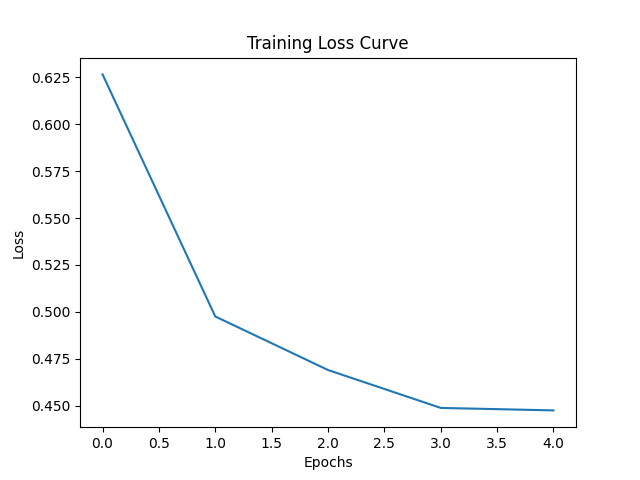
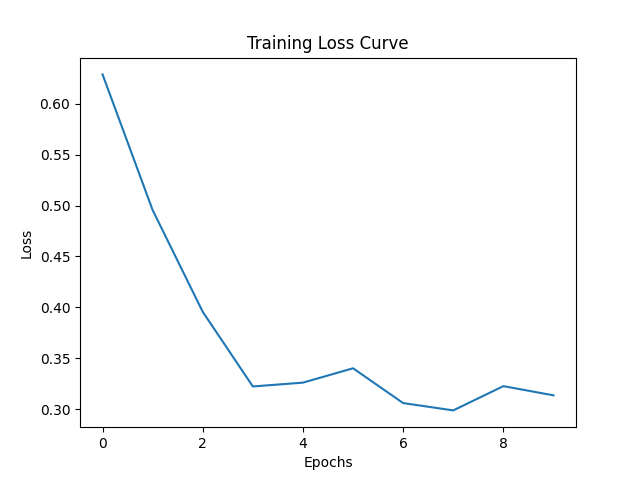
classifier done

diff --git a/classifier.py b/classifier.py
@@ -1,4 +1,4 @@
-from transformers import RobertaModel, AutoTokenizer, AdamW, AutoModel, AutoConfig
+from transformers import RobertaForSequenceClassification, AutoTokenizer, AdamW, AutoModel, AutoConfig
 import numpy as np
 import torch 
 from torch import nn
@@ -51,7 +51,8 @@ def train_one(model, tokenizer, batched_train_set, answer_tenser, optimizer, los
         inputs = tokenizer(data, return_tensors='pt', truncation=True, padding=True, max_length=500).to(device)
         optimizer.zero_grad()
         outputs = model(**inputs)
-        pred = torch.clamp(outputs.pooler_output, min=1e-6, max=1)
+        # print(outputs.logits)
+        pred = torch.clamp(outputs.logits, min=1e-6, max=1)
         # print(pred.shape)
         # print(answer_tenser[index])
         loss = loss_func(pred, answer_tenser[index].to(device))
@@ -64,7 +65,6 @@ def train_one(model, tokenizer, batched_train_set, answer_tenser, optimizer, los
     return np.mean(losses)
 
 def train_classifier(model, tokenizer, train_set, batch = 1, epochs = 5, lr = 1e-5, weight_decay = 0.01):
-    print(model.pooler.dense )
     tokenizer.add_special_tokens({'pad_token': '[PAD]'})
     model.resize_token_embeddings(len(tokenizer))
 
@@ -93,49 +93,63 @@ def train_classifier(model, tokenizer, train_set, batch = 1, epochs = 5, lr = 1e
     for epoch in tqdm(range(epochs), desc = "Progress of train_classifier"):
         loss = train_one(model, tokenizer, batched_train_set, bacthed_answers, optimizer, loss_func)
         loss_values.append(loss)
+    
     model.save_pretrained("classifier")
     # # Generate an image of the loss curves
-    # plt.clf()
-    # plt.plot(range(epochs), loss_values)
-    # plt.xlabel('Epochs')
-    # plt.ylabel('Loss')
-    # plt.title('Training Loss Curve')
-    # plt.savefig('loss curve of classifier.png')
+    plt.clf()
+    plt.plot(range(epochs), loss_values)
+    plt.xlabel('Epochs')
+    plt.ylabel('Loss')
+    plt.title('Training Loss Curve')
+    plt.savefig('loss curve of classifier.png')
 
 
 if __name__ == '__main__':
-    model = AutoModel.from_pretrained('distilroberta-base')
+    model = RobertaForSequenceClassification.from_pretrained('distilroberta-base')
     tokenizer = AutoTokenizer.from_pretrained("distilbert/distilroberta-base", use_fast=True)
-
     dataset = merge_dataset(load_dataset("knowledgator/Scientific-text-classification", split='train'))
     dataset = dataset.select(range(len(dataset)//4))
 
-    # change the last layer to create 5 output
-    model.pooler.dense = nn.Linear(768, 5)
-    # print(model.pooler)
-    train_classifier(model, tokenizer, dataset, batch = 2, epochs = 5, lr = 1e-5, weight_decay = 0.01)
+    # # # change the last layer to create 5 output
+    model.classifier.out_proj = nn.Linear(768, 5)
+    # # train_classifier(model, tokenizer, dataset, batch = 2, epochs = 1, lr = 1e-6, weight_decay = 0.005)
+    train_classifier(model, tokenizer, dataset, batch = 2, epochs = 10, lr = 5e-7, weight_decay = 0.001)
 
 
-    # TODO: Having a problem with loading pretrained model. 
-    # model = AutoModel.from_pretrained("classifier", num_labels=5, ignore_mismatched_sizes=True)  
+    model = RobertaForSequenceClassification.from_pretrained("classifier", num_labels = 5)  
+    # print(model)
     # model.pooler.dense = nn.Linear(768, 5)
 
-    # tokenizer = AutoTokenizer.from_pretrained("distilbert/distilroberta-base", use_fast=True)
-    # tokenizer.add_special_tokens({'pad_token': '[PAD]'})
+    tokenizer = AutoTokenizer.from_pretrained("distilbert/distilroberta-base", use_fast=True)
+    tokenizer.add_special_tokens({'pad_token': '[PAD]'})
+
+    # For testing performance
     dataset = merge_dataset(load_dataset("knowledgator/Scientific-text-classification", split='train'))
     dataset = dataset.select(range(len(dataset)//4,len(dataset)))
 
+
     model.eval().to(device)
-    true_num = 0
-    false_num = 0
+    true_num = {'general mathematics':0,
+        'computer science':0,
+        'general physics':0,
+        'electrical engineering and systems science':0,
+        'theoretical physics':0
+        }
+    false_num = {'general mathematics':0,
+        'computer science':0,
+        'general physics':0,
+        'electrical engineering and systems science':0,
+        'theoretical physics':0
+        }
 
     for data in dataset:
         inputs = tokenizer(data['text'], return_tensors='pt', truncation=True, padding=True, max_length=500).to(device)
         outputs = model(**inputs)
-        pred = convert_classes_to_label(torch.clamp(outputs.pooler_output, min=1e-6, max=1).tolist()[0])
+        pred = convert_classes_to_label(torch.clamp(outputs.logits, min=1e-6, max=1).tolist()[0])
         if pred == data['label']:
-            true_num += 1
+            true_num[data['label']] += 1
         else:
-            false_num += 1
-    print("Total num: ", true_num + false_num)
-    print("True %:", (true_num / (true_num + false_num)) * 100)
+            false_num[data['label']] += 1
+
+    for key in true_num.keys():
+        print("True % of ", key , ":", (true_num[key] / (true_num[key] + false_num[key])) * 100)
